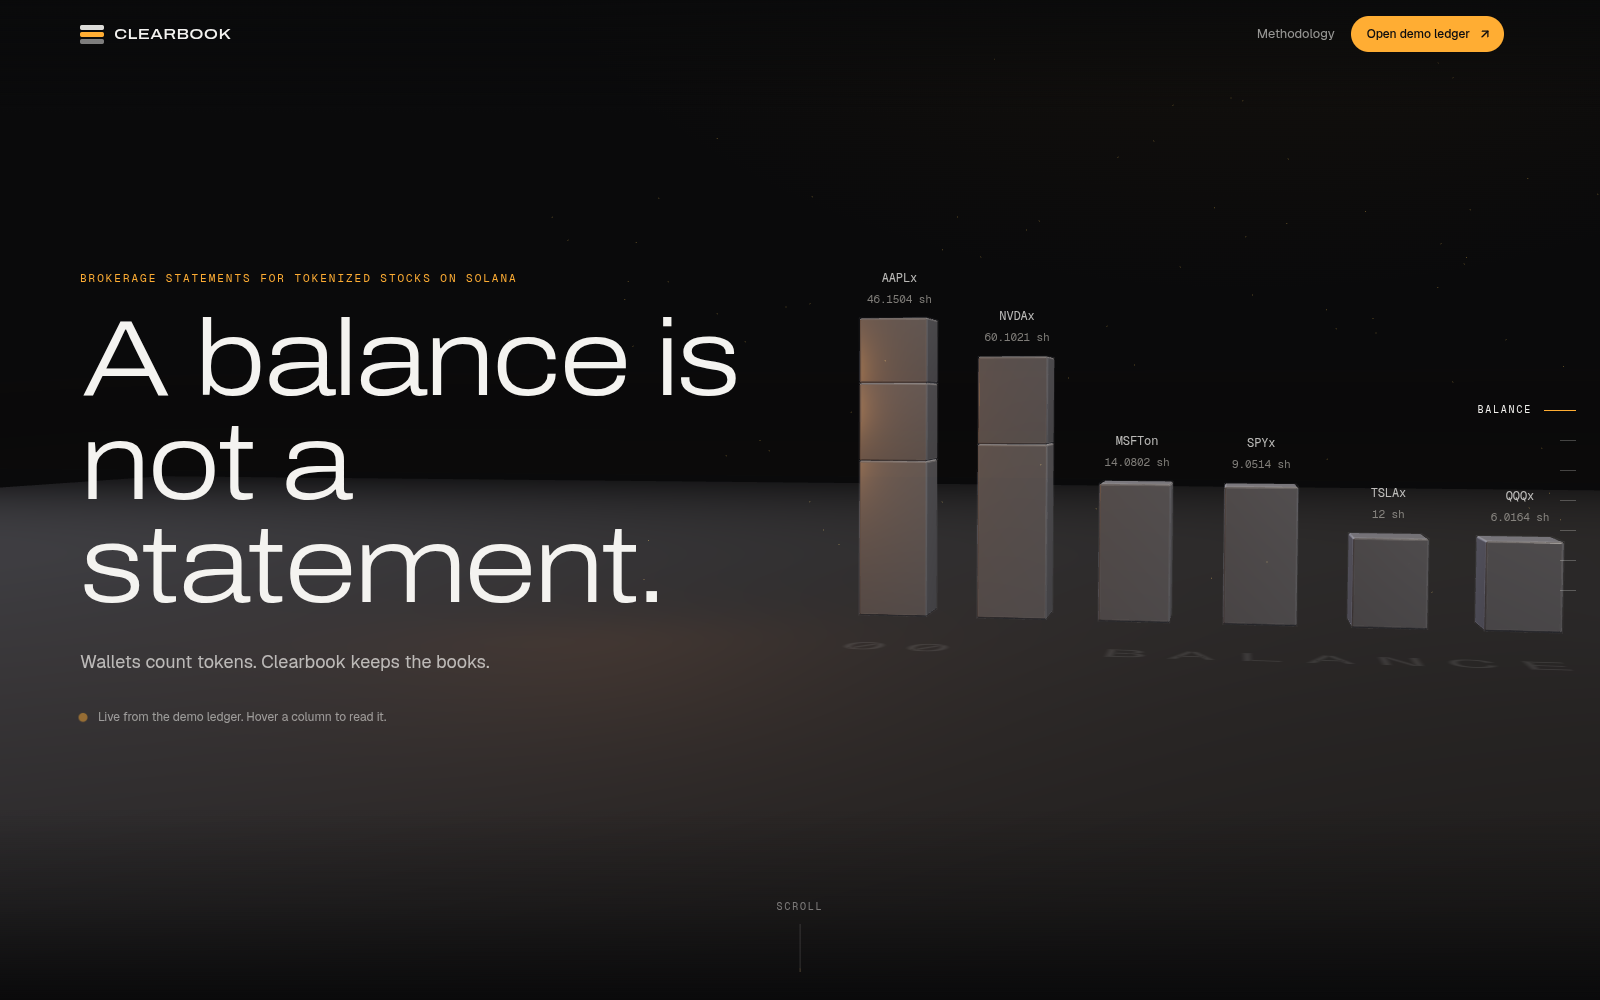
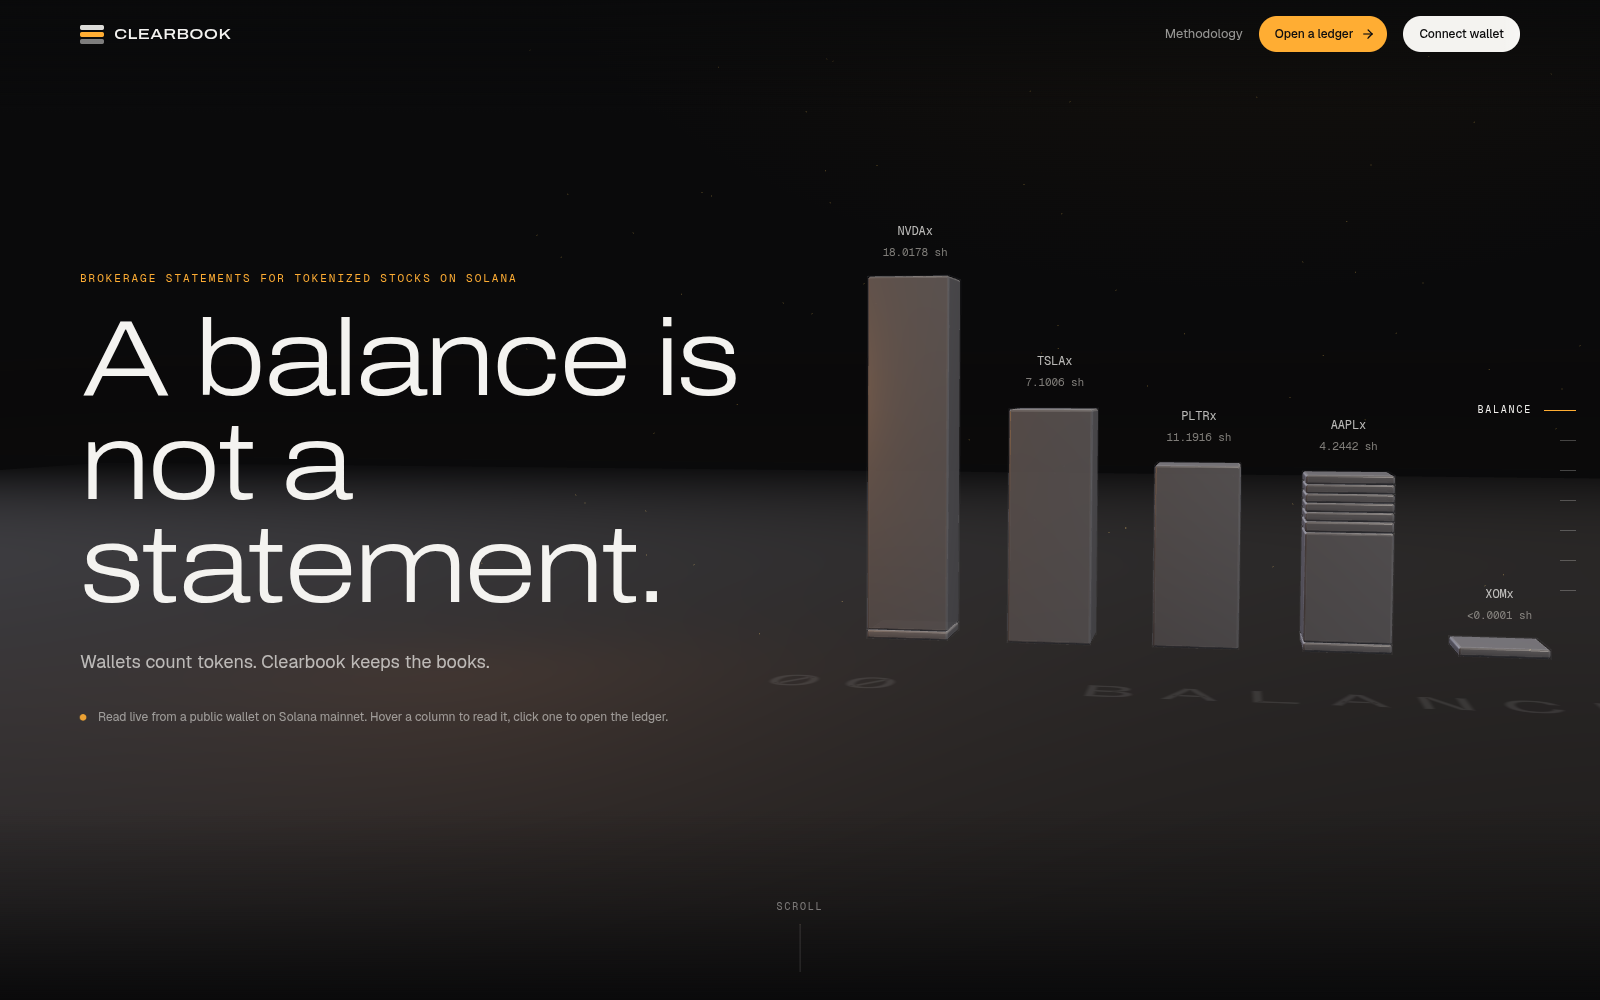
Move the public address to clearbook.bond, add link preview tags and refresh the landing screenshot

Changed region(s): [[0.5312, 0.217, 1.0, 0.682], [0.75, 0.0, 0.9688, 0.062], [0.0625, 0.713, 0.4062, 0.744]]

diff --git a/artifacts/clearbook/index.html b/artifacts/clearbook/index.html
@@ -6,6 +6,19 @@
     <title>Clearbook</title>
     <meta name="description" content="Clearbook. Brokerage statements and tax lots for tokenized stocks on Solana." />
     <meta name="robots" content="index, follow" />
+    <link rel="canonical" href="https://clearbook.bond/" />
+    <meta property="og:type" content="website" />
+    <meta property="og:site_name" content="Clearbook" />
+    <meta property="og:title" content="Clearbook" />
+    <meta property="og:description" content="Brokerage statements and tax lots for tokenized stocks on Solana." />
+    <meta property="og:url" content="https://clearbook.bond/" />
+    <meta property="og:image" content="https://clearbook.bond/og.png" />
+    <meta property="og:image:width" content="1200" />
+    <meta property="og:image:height" content="630" />
+    <meta name="twitter:card" content="summary_large_image" />
+    <meta name="twitter:title" content="Clearbook" />
+    <meta name="twitter:description" content="Brokerage statements and tax lots for tokenized stocks on Solana." />
+    <meta name="twitter:image" content="https://clearbook.bond/og.png" />
     <meta name="theme-color" content="#06080d" />
     <link rel="icon" href="/favicon.ico" sizes="16x16 32x32 48x48" />
     <link rel="icon" type="image/svg+xml" href="/favicon.svg" />

diff --git a/README.md b/README.md
@@ -4,7 +4,7 @@ Brokerage statements for tokenized stocks on Solana.
 
 Paste a wallet or connect one. Clearbook reads its xStocks, Ondo Global Markets and PreStocks balances, rebuilds the tax lots from on-chain history, marks every position against a reference price, reads dividends and splits from the Token-2022 multiplier and produces a statement that exports to CSV and PDF and can be notarized on chain.
 
-Live at https://clearbook-gray.vercel.app. Built for the Stocklana hackathon. Main track, Pyth bounty and PreStocks bounty.
+Live at https://clearbook.bond. Built for the Stocklana hackathon. Main track, Pyth bounty and PreStocks bounty.
 
 ![Clearbook landing page](docs/images/landing.png)
 
@@ -28,7 +28,7 @@ Unknown or estimated figures are always shown as such. Transfers with no known c
 
 ## Try it with your wallet
 
-1. Open https://clearbook-gray.vercel.app and connect a Solana wallet or paste an address to read it without connecting. Connect lists the wallets installed in the browser. The chosen wallet approves the connection and signs a sign in message, which costs nothing and proves the account is yours. The session is kept for seven days and ends when you disconnect from the address menu.
+1. Open https://clearbook.bond and connect a Solana wallet or paste an address to read it without connecting. Connect lists the wallets installed in the browser. The chosen wallet approves the connection and signs a sign in message, which costs nothing and proves the account is yours. The session is kept for seven days and ends when you disconnect from the address menu.
 2. Indexing runs in the background. A typical wallet is ready in about ten seconds on the hosted setup and the status line counts signatures and events as they are read. A wallet with a very long history gets a partial ledger with a note about what was left out.
 3. Open Statements, pick a period and generate one. The document hash, the CSV and the PDF are built from the same rows.
 4. Click Sign on chain. Your wallet signs one memo transaction that carries the hash and costs only the network fee. The proof shows the slot and the signer once the network confirms it, usually within a few seconds.
